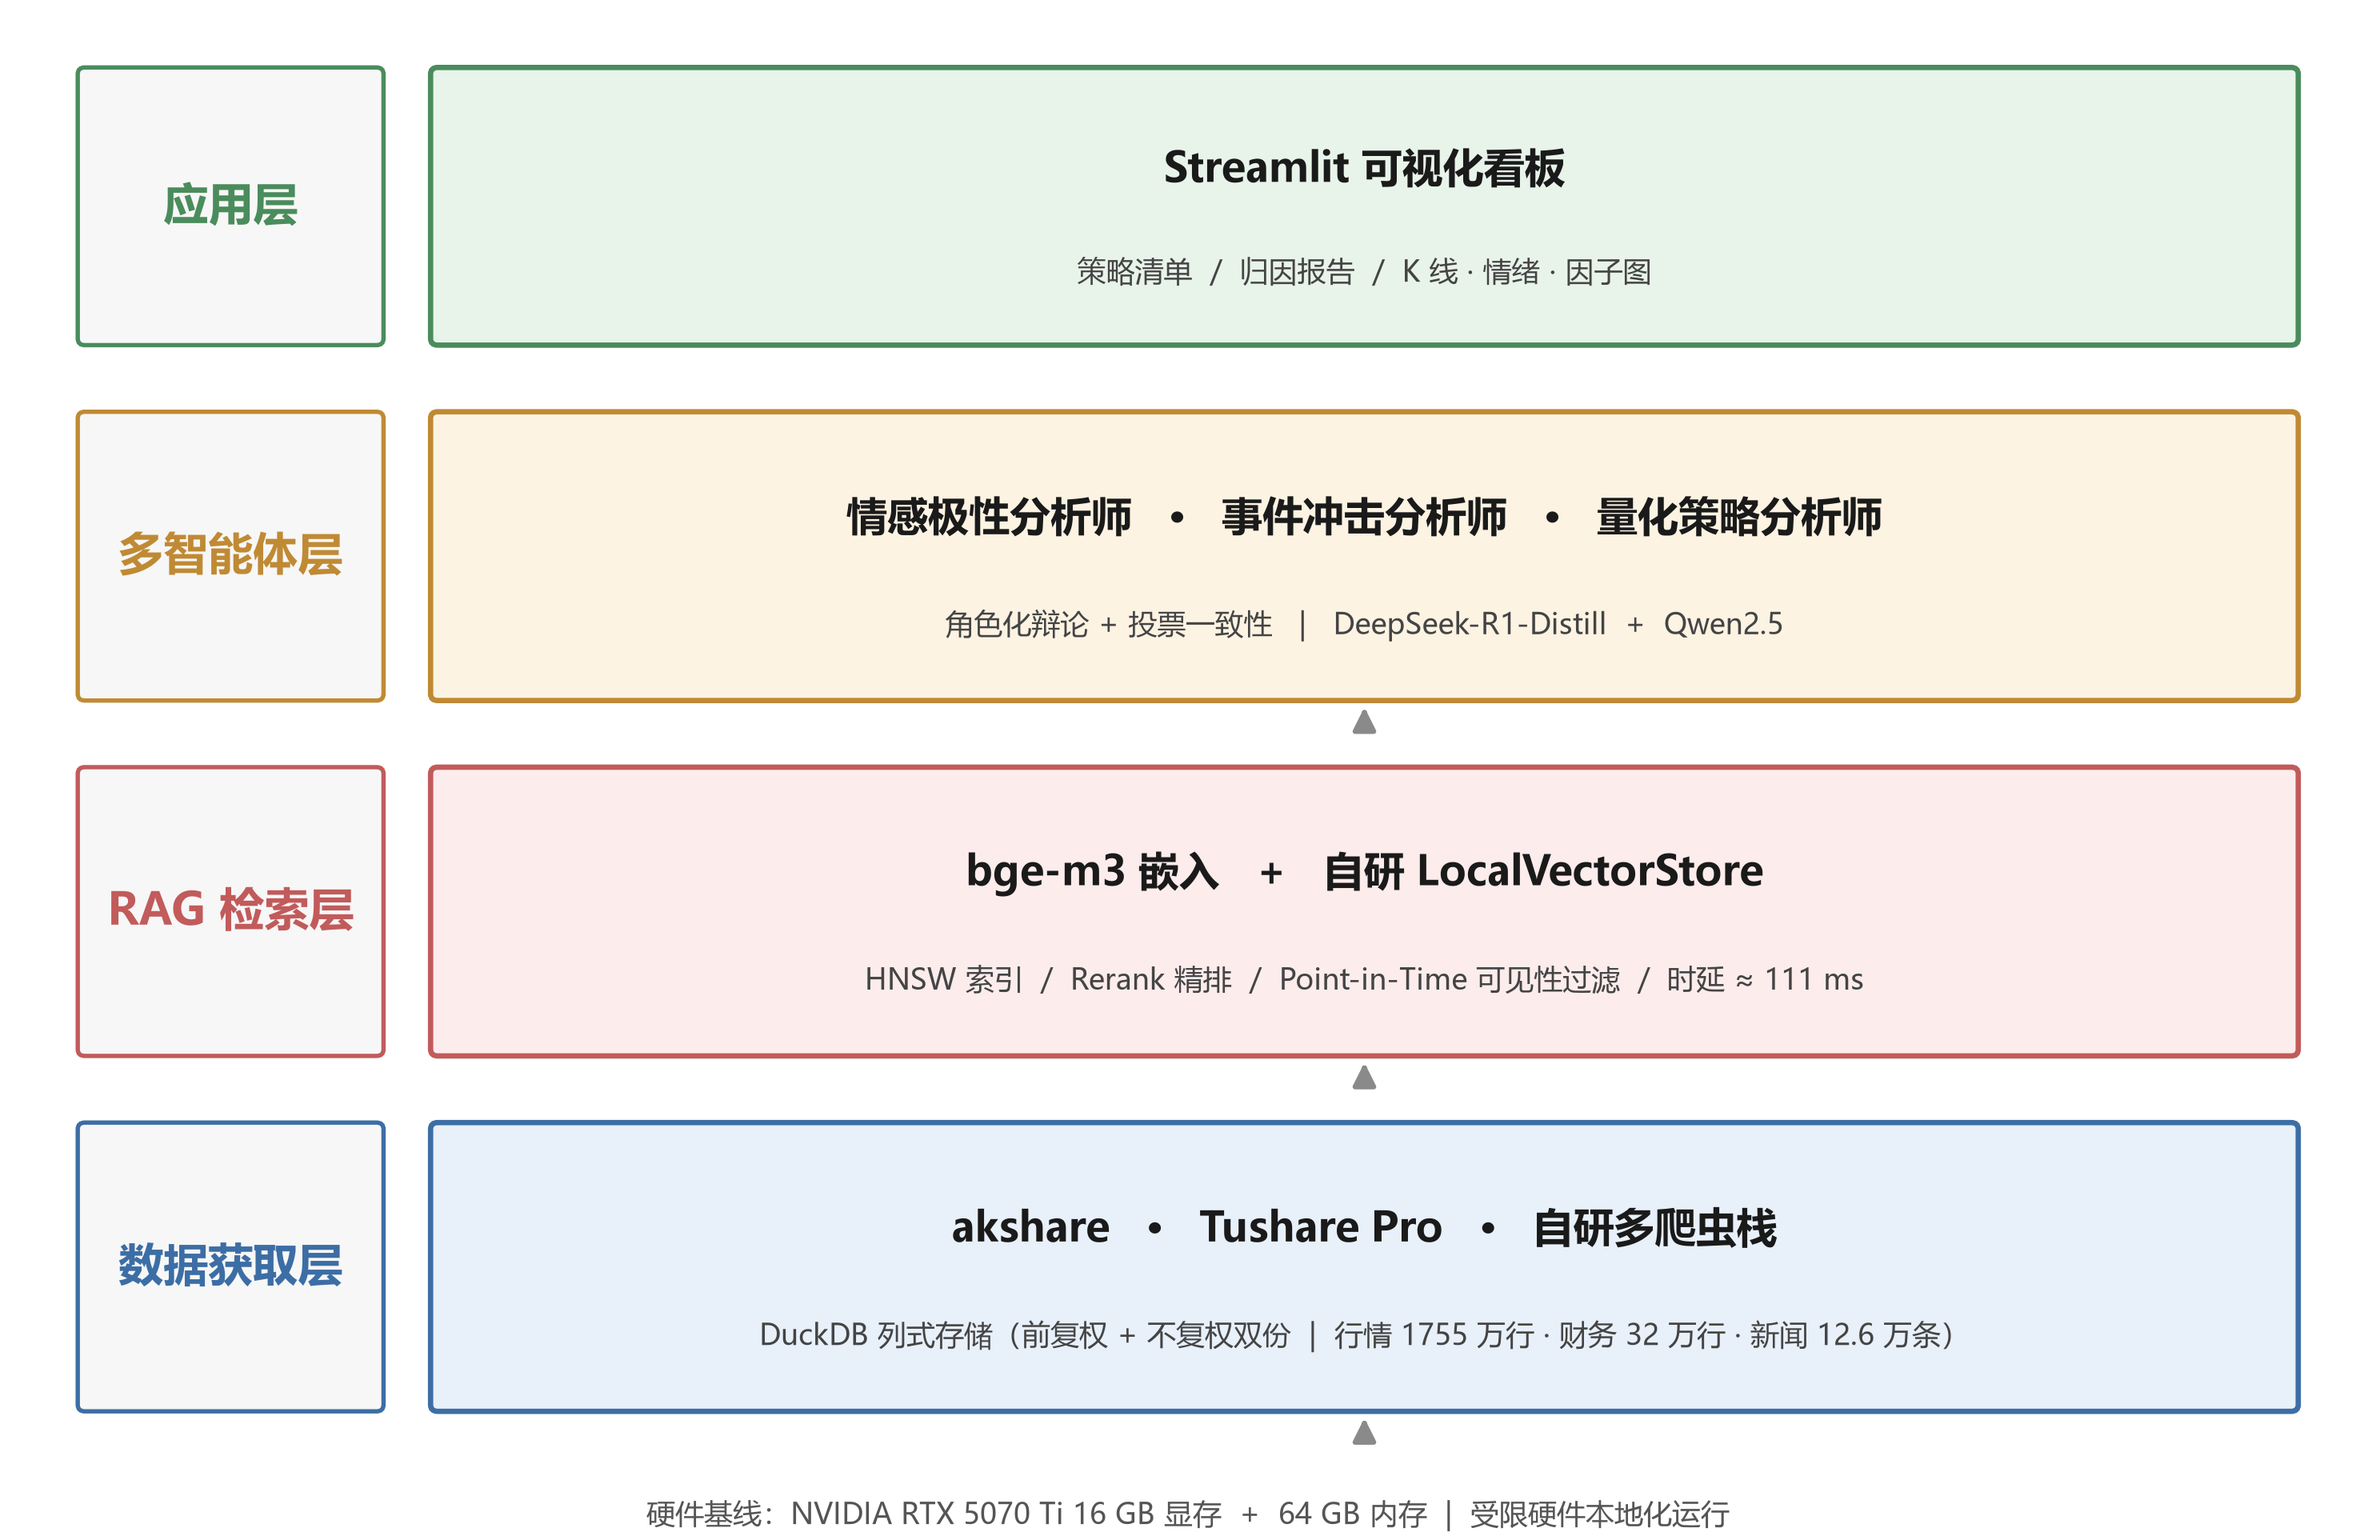
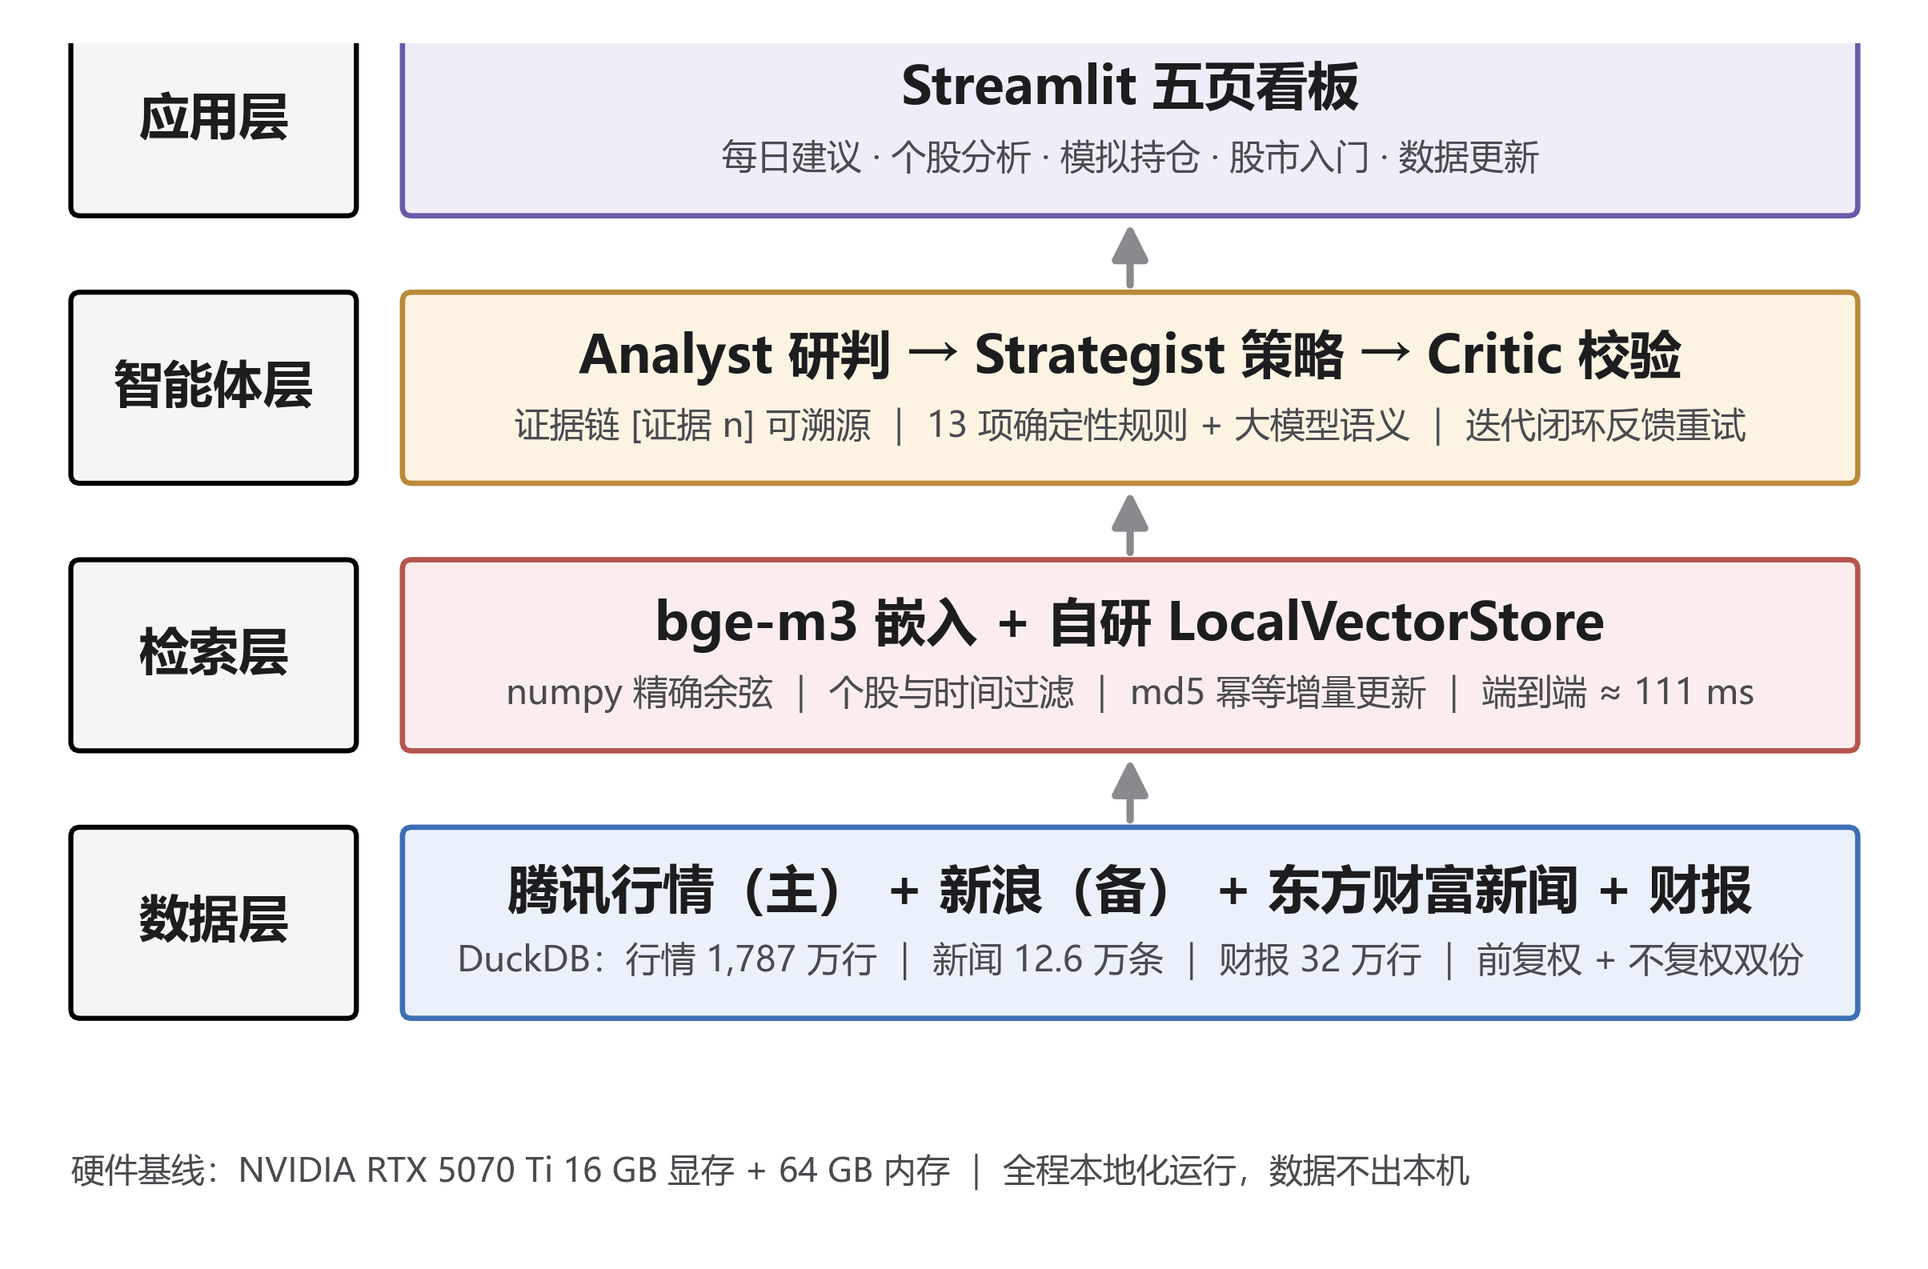
docs(readme): 图片内置 assets/ 并按当前实现重绘架构/流程图，更新看板截图与数据规模

Changed region(s): [[0.0311, 0.0309, 0.9963, 1.0]]

diff --git a/a_share_agent_system/scripts/gen_readme_figs.py b/a_share_agent_system/scripts/gen_readme_figs.py
@@ -1,0 +1,146 @@
+# -*- coding: utf-8 -*-
+"""生成 README 用的架构图与流程图（口径与代码一致，2026-11 现状）。
+
+运行：
+    python scripts/gen_readme_figs.py
+输出：
+    <repo>/assets/architecture.png  (2970x1920 @300dpi)
+    <repo>/assets/flow.png          (3420x1320 @300dpi)
+
+为什么单独写一个脚本：旧图把技术栈写成了 DeepSeek-R1-Distill / HNSW / Tushare，
+与当前实现（单一 Qwen2.5-7B、numpy 精确余弦、腾讯+新浪源）不一致，必须重画。
+"""
+import sys
+from pathlib import Path
+
+import matplotlib
+
+matplotlib.use("Agg")
+import matplotlib.pyplot as plt  # noqa: E402
+from matplotlib import font_manager  # noqa: E402
+from matplotlib.patches import FancyArrowPatch, FancyBboxPatch  # noqa: E402
+
+# ---------- 中文字体（Windows 自带微软雅黑）----------
+_font = Path(r"C:\Windows\Fonts\msyh.ttc")
+if _font.exists():
+    font_manager.fontManager.addfont(str(_font))
+    CN = font_manager.FontProperties(fname=str(_font)).get_name()
+    plt.rcParams["font.sans-serif"] = [CN]
+    plt.rcParams["axes.unicode_minus"] = False
+
+ROOT = Path(__file__).resolve().parents[1]          # a_share_agent_system/
+OUT = ROOT.parent / "assets"                        # 仓库根 assets/
+OUT.mkdir(exist_ok=True)
+
+# ---------- 配色（与 README 的浅色系一致）----------
+BLUE = ("#EAF1FB", "#3C6FB5")
+RED = ("#FBEDED", "#B5544F")
+AMBER = ("#FDF3E3", "#B98A38")
+GREEN = ("#EAF4EC", "#3E8455")
+PURPLE = ("#F0EDF9", "#6A5AA8")
+GRAY_BOX = ("#F5F5F7", "#000000")
+TEXT, SUB = "#1D1D1F", "#4A4A4F"
+
+
+def box(ax, x, y, w, h, face, edge, lw=1.6, r=0.05):
+    ax.add_patch(FancyBboxPatch(
+        (x, y), w, h, boxstyle=f"round,pad=0,rounding_size={r}",
+        linewidth=lw, edgecolor=edge, facecolor=face, zorder=2))
+
+
+def arrow(ax, x1, y1, x2, y2, color="#8A8A8E", lw=2.2):
+    ax.add_patch(FancyArrowPatch(
+        (x1, y1), (x2, y2), arrowstyle="-|>", mutation_scale=22,
+        linewidth=lw, color=color, shrinkA=0, shrinkB=0, zorder=3))
+
+
+def center(ax, x, y, s, size, color=TEXT, weight="normal"):
+    ax.text(x, y, s, ha="center", va="center", fontsize=size,
+            color=color, fontweight=weight, zorder=4)
+
+
+# ============ 图 1：系统架构（四层，自下而上）============
+def build_architecture():
+    fig, ax = plt.subplots(figsize=(9.9, 6.4), dpi=300)
+    ax.set_xlim(0, 10)
+    ax.set_ylim(0, 6.5)
+    ax.axis("off")
+    fig.patch.set_facecolor("#FFFFFF")
+
+    rows = [
+        ("应用层", PURPLE, "Streamlit 五页看板",
+         "每日建议 · 个股分析 · 模拟持仓 · 股市入门 · 数据更新"),
+        ("智能体层", AMBER, "Analyst 研判 → Strategist 策略 → Critic 校验",
+         "证据链 [证据 n] 可溯源 ｜ 13 项确定性规则 + 大模型语义 ｜ 迭代闭环反馈重试"),
+        ("检索层", RED, "bge-m3 嵌入 + 自研 LocalVectorStore",
+         "numpy 精确余弦 ｜ 个股与时间过滤 ｜ md5 幂等增量更新 ｜ 端到端 ≈ 111 ms"),
+        ("数据层", BLUE, "腾讯行情（主） + 新浪（备） + 东方财富新闻 + 财报",
+         "DuckDB：行情 1,787 万行 ｜ 新闻 12.6 万条 ｜ 财报 32 万行 ｜ 前复权 + 不复权双份"),
+    ]
+
+    top, h, gap, lbl_w = 5.55, 1.05, 0.42, 1.55
+    step = h + gap
+    for i, (name, (face, edge), title, sub) in enumerate(rows):
+        y = top - i * step
+        box(ax, 0.15, y, lbl_w, h, GRAY_BOX[0], GRAY_BOX[1], lw=1.5)
+        center(ax, 0.15 + lbl_w / 2, y + h / 2, name, 15, TEXT, "bold")
+        box(ax, 1.95, y, 7.9, h, face, edge)
+        center(ax, 1.95 + 7.9 / 2, y + h * 0.66, title, 15.5, TEXT, "bold")
+        center(ax, 1.95 + 7.9 / 2, y + h * 0.30, sub, 10.5, SUB)
+        if i < len(rows) - 1:  # 架构自下而上：箭头朝上（数据层 → 应用层）
+            arrow(ax, 5.9, y - gap + 0.04, 5.9, y - 0.04)
+
+    ax.text(0.15, 0.30,
+            "硬件基线：NVIDIA RTX 5070 Ti 16 GB 显存 + 64 GB 内存 ｜ 全程本地化运行，数据不出本机",
+            fontsize=10, color=SUB, ha="left", va="center")
+
+    out = OUT / "architecture.png"
+    fig.savefig(out, dpi=300, facecolor="#FFFFFF", bbox_inches="tight", pad_inches=0.18)
+    plt.close(fig)
+    print("已生成:", out)
+
+
+# ============ 图 2：工作流程（五阶段，自左向右）============
+def build_flow():
+    fig, ax = plt.subplots(figsize=(11.4, 4.4), dpi=300)
+    ax.set_xlim(0, 11.4)
+    ax.set_ylim(0, 4.4)
+    ax.axis("off")
+    fig.patch.set_facecolor("#FFFFFF")
+
+    stages = [
+        ("① 数据采集", BLUE, ["腾讯 / 新浪 / 东财", "增量 + 幂等去重"]),
+        ("② 治理与入库", RED, ["PIT 财务对齐", "DuckDB 双份复权"]),
+        ("③ 情感与检索", AMBER, ["QLoRA 微调 89.0%", "bge-m3 向量库"]),
+        ("④ 多智能体研判", GREEN, ["三 Agent + 闸门", "证据链编号"]),
+        ("⑤ 应用交付", PURPLE, ["五页看板", "推荐 · 模拟盘"]),
+    ]
+
+    w, h, y0, gap = 1.85, 1.75, 1.30, 0.40
+    x = 0.30
+    for i, (name, (face, edge), lines) in enumerate(stages):
+        box(ax, x, y0, w, h, face, edge)
+        center(ax, x + w / 2, y0 + h * 0.78, name, 12.5, TEXT, "bold")
+        center(ax, x + w / 2, y0 + h * 0.44, lines[0], 9.5, SUB)
+        center(ax, x + w / 2, y0 + h * 0.22, lines[1], 9.5, SUB)
+        if i < len(stages) - 1:
+            arrow(ax, x + w + 0.03, y0 + h / 2, x + w + gap - 0.03, y0 + h / 2)
+        x += w + gap
+
+    center(ax, 11.4 / 2, 0.78,
+           "数据基座 → 检索增强 → 协同推理 → 策略生成 → 应用交付", 11, SUB)
+    center(ax, 11.4 / 2, 0.38,
+           "每个阶段都有可运行的校验脚本（validate_rag / build_sentiment_dataset / batch_eval / pytest）",
+           9.5, "#8A8A8E")
+
+    out = OUT / "flow.png"
+    fig.savefig(out, dpi=300, facecolor="#FFFFFF", bbox_inches="tight", pad_inches=0.18)
+    plt.close(fig)
+    print("已生成:", out)
+
+
+if __name__ == "__main__":
+    build_architecture()
+    build_flow()
+    sys.exit(0)
+

diff --git a/README.md b/README.md
@@ -18,7 +18,7 @@
 
 ## 项目简介
 
-本系统面向 A 股市场，构建「数据采集 → 情感分析 → 检索增强 → 多智能体决策」的完整技术链路：以 1755 万行行情数据与 12.6 万条金融新闻为数据基座，通过弱监督打标与 QLoRA 微调训练金融领域情感分析模型（准确率 89.0%），并以自研向量库提供毫秒级证据检索，最终由分析师 / 策略师 / 评审员三类智能体协作生成可追溯的投资分析报告。
+本系统面向 A 股市场，构建「数据采集 → 情感分析 → 检索增强 → 多智能体决策」的完整技术链路：以 1,787 万行行情数据与 12.6 万条金融新闻为数据基座，通过弱监督打标与 QLoRA 微调训练金融领域情感分析模型（准确率 89.0%），并以自研向量库提供毫秒级证据检索，最终由分析师 / 策略师 / 评审员三类智能体协作生成可追溯的投资分析报告。
 
 > 本科毕业设计项目 · 2026 届 · 数据科学与大数据技术
 
@@ -37,7 +37,7 @@
 
 | 特性 | 说明 |
 |------|------|
-| **真实数据基座** | 全 A 股行情 1755 万行（5443 只，含退市 232 只，1990–2026）、财务报表 32 万行、金融新闻 12.6 万条，全部来自公开渠道，无任何模拟数据 |
+| **真实数据基座** | 全 A 股行情 1,787 万行（5,443 只，1990–2026）、财务报表 32 万行、金融新闻 12.6 万条，全部来自公开渠道，无任何模拟数据 |
 | **Point-in-Time 对齐** | 财务数据按 `pubDate`（实际披露日）对齐，杜绝未来函数，保证回测有效性；行情同时保存前复权与不复权双份 |
 | **自研向量库 LocalVectorStore** | 替代 ChromaDB，规避其在 Windows 下 HNSW 索引不落盘的缺陷；bge-m3 + GPU 精确余弦检索，端到端 111ms，支持 md5 幂等的增量更新 |
 | **弱监督 + QLoRA 情感分析** | 金融情感词典（人工一致率 90.5%）自动打标 12.6 万条，再以 QLoRA NF4 微调 Qwen2.5-7B，准确率 89.0%，利空类召回率 100% |
@@ -54,7 +54,7 @@
 <summary>架构分层说明</summary>
 
 - **数据层**：`data_platform` 负责采集（AkShare / BaoStock / 新浪财经 / 腾讯行情），产出 parquet 后由 DuckDB 统一建库；
-- **存储层**：DuckDB 列式分析库（3555 万行，建库 27s）+ LocalVectorStore 向量索引（12.6 万条 × 1024 维）；
+- **存储层**：DuckDB 列式分析库（1,819 万行：行情 1,787 万 + 财报 32 万；建库 27 s）+ LocalVectorStore 向量索引（12.6 万条 × 1024 维）；
 - **模型层**：bge-m3 嵌入模型 + Qwen2.5-7B-Instruct（QLoRA 微调）情感分类器；
 - **智能体层**：Analyst（检索证据生成初稿）/ Strategist（策略建议）/ Critic（事实校验）；
 - **应用层**：Streamlit 交互式看板。
@@ -95,7 +95,7 @@ pip install torch --index-url https://download.pytorch.org/whl/cu128
 ### 2. 数据底座构建
 
 ```bash
-# 构建 DuckDB 行情库（1,786 万行，约 27s）
+# 构建 DuckDB 行情库（1,787 万行，约 27s）
 python scripts/build_market_db.py
 
 # 构建向量检索索引（12.6 万条新闻）
@@ -169,17 +169,12 @@ streamlit run src/app/main.py
 - 顶栏：品牌 + 数据截止徽标 + 大模型开关（规则 / eco / max）+ 外观（浅色 / 深色 / 米色、背景图与模糊度）+ 刷新
 
 <div align="center">
-  <img src="assets/dashboard_top.png" alt="看板概览与K线" width="85%">
+  <img src="assets/picks.jpg" alt="每日建议页：四因子评分、新闻闸门、建议买入卡片" width="85%">
 </div>
-
-<details>
-<summary>更多截图</summary>
 
 <div align="center">
-  <img src="assets/dashboard_report.png" alt="多智能体报告" width="85%">
+  <img src="assets/ops.jpg" alt="数据更新页：库统计与推荐重算" width="85%">
 </div>
-
-</details>
 
 ## 项目结构
 
@@ -231,7 +226,7 @@ a-share-agent-system/
 
 | 指标 | 数值 |
 |------|------|
-| DuckDB 入库（3555 万行） | 27 秒 |
+| DuckDB 入库（1,819 万行） | 27 秒 |
 | 行情区间查询 | 56 ms |
 | 向量检索端到端（12.6 万条） | 111 ms |
 | Phase 1 验收项 | 8 / 8 通过 |
